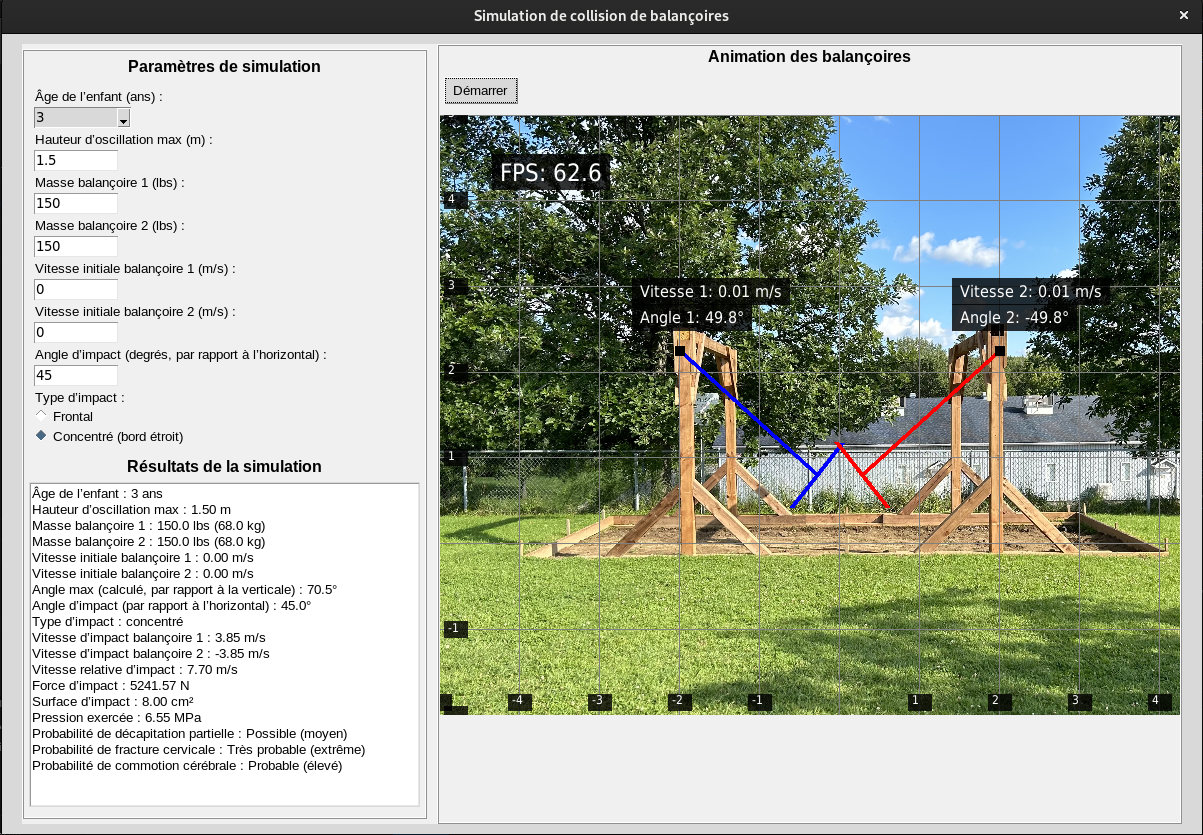
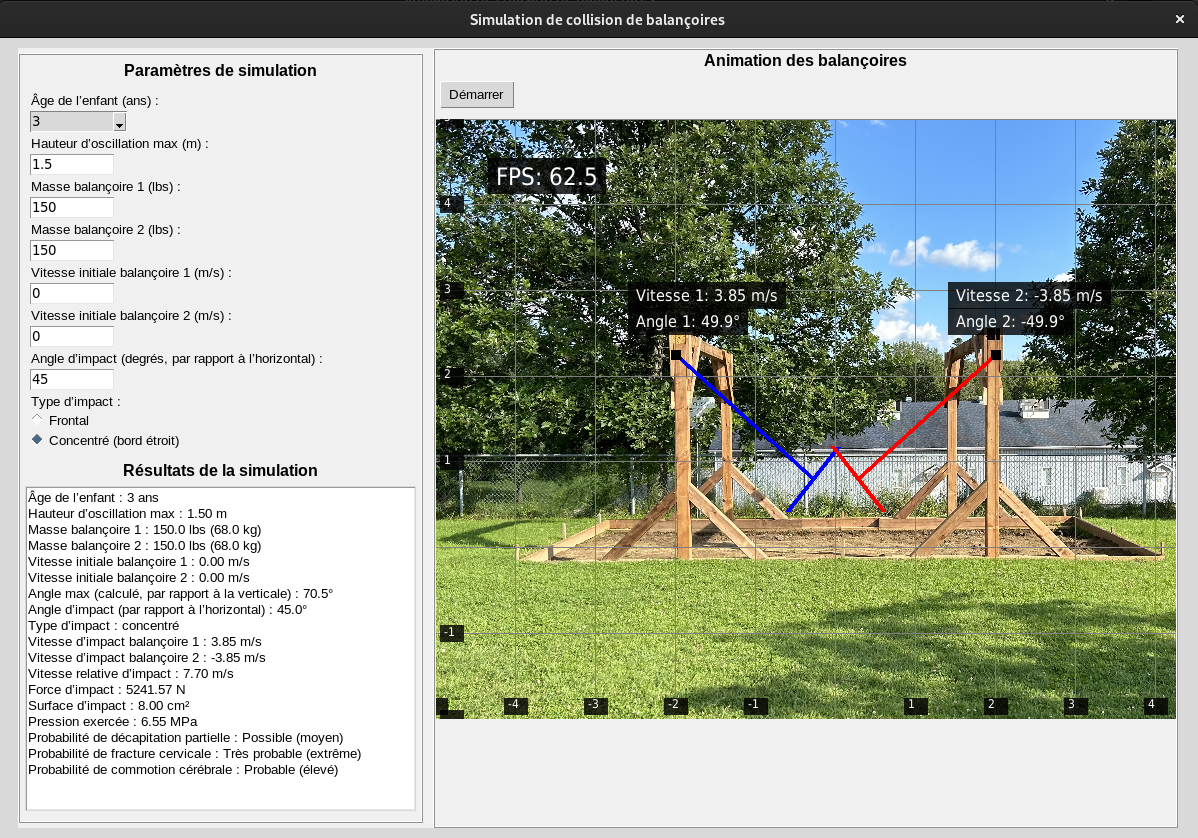
Fix: les vitesses finals

diff --git a/animation/animation.py b/animation/animation.py
@@ -55,6 +55,9 @@ def animate_swings_thread(surface, animation_label, root, toggle_button, is_runn
     t = 0
     dt = 1.0 / 60.0
     
+    final_v1 = 0
+    final_v2 = 0
+    
     while is_running.get():
         glClear(GL_COLOR_BUFFER_BIT | GL_DEPTH_BUFFER_BIT)
         
@@ -117,6 +120,8 @@ def animate_swings_thread(surface, animation_label, root, toggle_button, is_runn
             ) and not collision_occurred:
                 v1 = theta1_dot * LENGTH_SWING
                 v2 = theta2_dot * LENGTH_SWING
+                final_v1 = v1
+                final_v2 = v2
                 v1_prime, v2_prime = calculate_collision(theta1_dot, theta2_dot, mass1_kg, mass2_kg, e)
                 theta1_dot = v1_prime / LENGTH_SWING
                 theta2_dot = v2_prime / LENGTH_SWING
@@ -187,10 +192,18 @@ def animate_swings_thread(surface, animation_label, root, toggle_button, is_runn
         render_text(f"Angle 2: {angle2_deg:.1f}°", pivot2_x - 0.5, pivot2_y + 0.5)
         
         # Calculate and render speed labels
-        speed1_ms = abs(theta1_dot * LENGTH_SWING)  # Speed in m/s for Swing 1
-        speed2_ms = abs(theta2_dot * LENGTH_SWING)  # Speed in m/s for Swing 2
-        render_text(f"Vitesse 1: {speed1_ms:.2f} m/s", pivot1_x - 0.5, pivot1_y+0.8)  # Below angle label
-        render_text(f"Vitesse 2: {speed2_ms:.2f} m/s", pivot2_x - 0.5, pivot2_y+0.8)  # Below angle label
+        
+        if collision_occurred:
+            speed1_ms = abs(theta1_dot * LENGTH_SWING)  # Speed in m/s for Swing 1
+            speed2_ms = abs(theta2_dot * LENGTH_SWING)  # Speed in m/s for Swing 2
+            render_text(f"Vitesse 1: {final_v1:.2f} m/s", pivot1_x - 0.5, pivot1_y+0.8)  # Below angle label
+            render_text(f"Vitesse 2: {final_v2:.2f} m/s", pivot2_x - 0.5, pivot2_y+0.8)  # Below angle label
+        else:
+            speed1_ms = abs(theta1_dot * LENGTH_SWING)  # Speed in m/s for Swing 1
+            speed2_ms = abs(theta2_dot * LENGTH_SWING)  # Speed in m/s for Swing 2
+            render_text(f"Vitesse 1: {speed1_ms:.2f} m/s", pivot1_x - 0.5, pivot1_y+0.8)  # Below angle label
+            render_text(f"Vitesse 2: {speed2_ms:.2f} m/s", pivot2_x - 0.5, pivot2_y+0.8)  # Below angle label
+            
         
         render_fps(fps)
         
